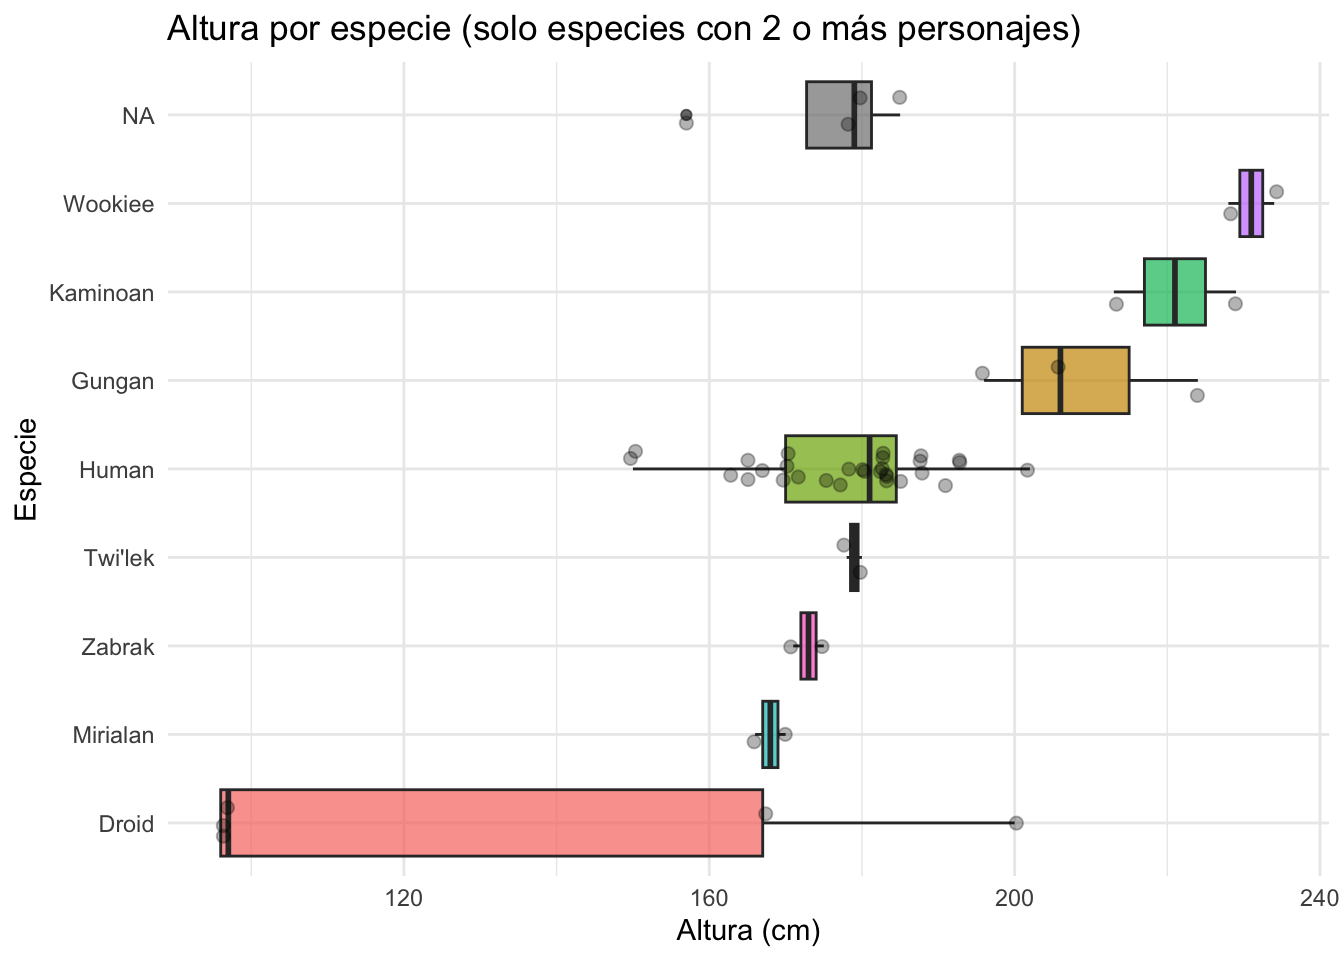
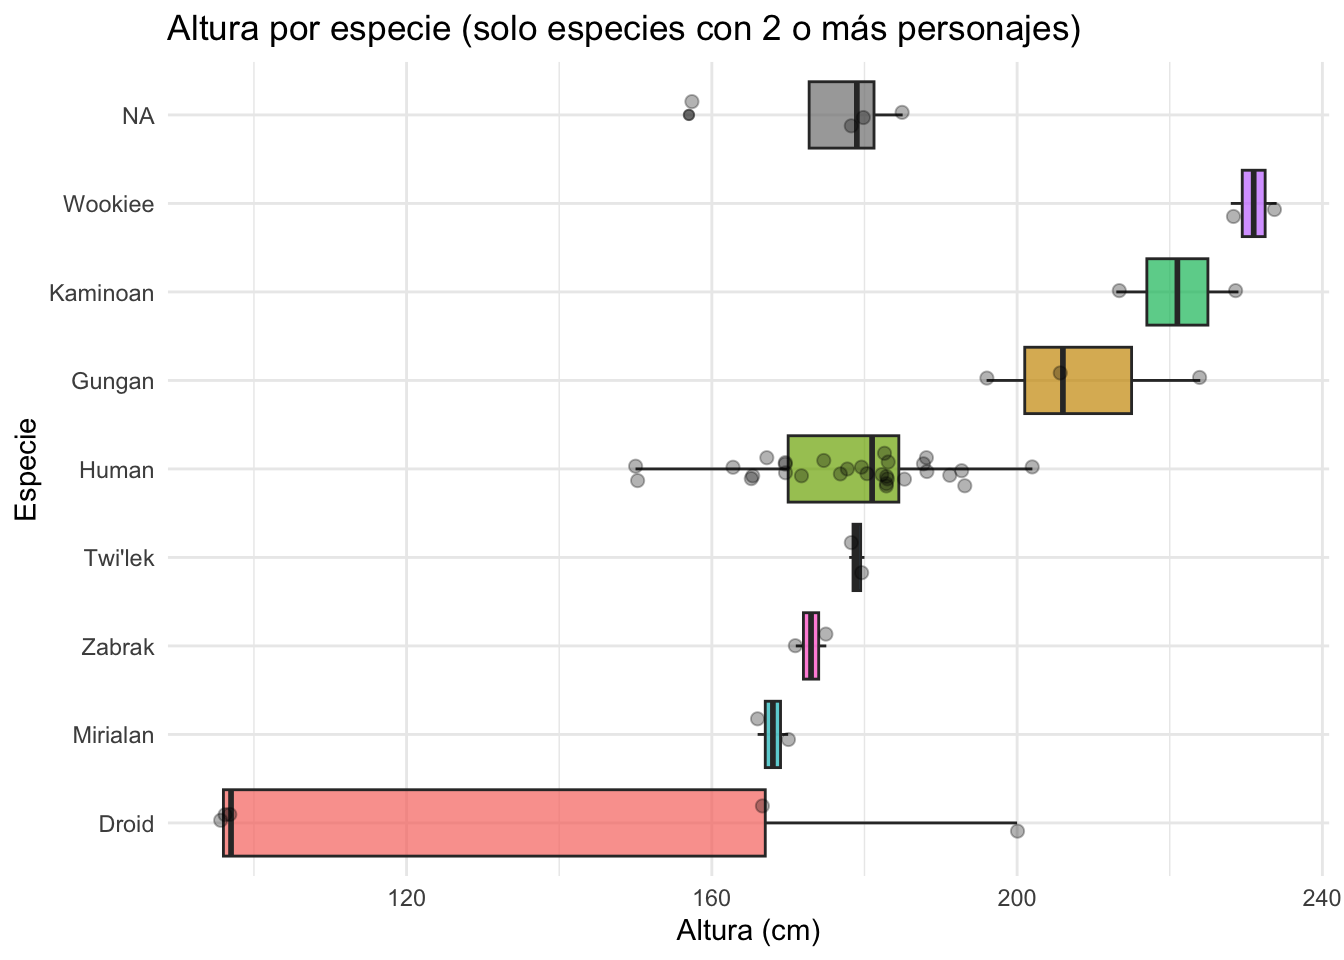
add render s4

diff --git a/docs/sesiones/sesion-4.html b/docs/sesiones/sesion-4.html
@@ -110,7 +110,7 @@ pre > code.sourceCode > span > a:first-child::before { text-decoration: underlin
 <link rel="stylesheet" href="../styles.css">
 </head>
 
-<body class="docked nav-fixed quarto-light">
+<body class="nav-sidebar docked nav-fixed quarto-light">
 
 <div id="quarto-search-results"></div>
   <header id="quarto-header" class="headroom fixed-top">
@@ -136,7 +136,7 @@ pre > code.sourceCode > span > a:first-child::before { text-decoration: underlin
 <span class="menu-text">Presentación</span></a>
   </li>  
   <li class="nav-item">
-    <a class="nav-link" href="../sesiones.html"> 
+    <a class="nav-link active" href="../sesiones.html" aria-current="page"> 
 <span class="menu-text">Sesiones</span></a>
   </li>  
 </ul>
@@ -145,11 +145,99 @@ pre > code.sourceCode > span > a:first-child::before { text-decoration: underlin
 </div>
       </div> <!-- /container-fluid -->
     </nav>
+  <nav class="quarto-secondary-nav">
+    <div class="container-fluid d-flex">
+      <button type="button" class="quarto-btn-toggle btn" data-bs-toggle="collapse" role="button" data-bs-target=".quarto-sidebar-collapse-item" aria-controls="quarto-sidebar" aria-expanded="false" aria-label="Toggle sidebar navigation" onclick="if (window.quartoToggleHeadroom) { window.quartoToggleHeadroom(); }">
+        <i class="bi bi-layout-text-sidebar-reverse"></i>
+      </button>
+        <nav class="quarto-page-breadcrumbs" aria-label="breadcrumb"><ol class="breadcrumb"><li class="breadcrumb-item"><a href="../sesiones/sesion-1.html">Todas las sesiones</a></li><li class="breadcrumb-item"><a href="../sesiones/sesion-4.html">Sesión 4</a></li><li class="breadcrumb-item"><a href="../sesiones/sesion-4.html">Sesión 4: Análisis Exploratorio de Datos</a></li></ol></nav>
+        <a class="flex-grow-1" role="navigation" data-bs-toggle="collapse" data-bs-target=".quarto-sidebar-collapse-item" aria-controls="quarto-sidebar" aria-expanded="false" aria-label="Toggle sidebar navigation" onclick="if (window.quartoToggleHeadroom) { window.quartoToggleHeadroom(); }">      
+        </a>
+    </div>
+  </nav>
 </header>
 <!-- content -->
 <div id="quarto-content" class="quarto-container page-columns page-rows-contents page-layout-article page-navbar">
 <!-- sidebar -->
   <nav id="quarto-sidebar" class="sidebar collapse collapse-horizontal quarto-sidebar-collapse-item sidebar-navigation docked overflow-auto">
+    <div class="sidebar-menu-container"> 
+    <ul class="list-unstyled mt-1">
+        <li class="sidebar-item">
+  <div class="sidebar-item-container"> 
+  <a href="../sesiones.html" class="sidebar-item-text sidebar-link">
+ <span class="menu-text">Sesiones</span></a>
+  </div>
+</li>
+        <li class="sidebar-item sidebar-item-section">
+      <div class="sidebar-item-container"> 
+            <a class="sidebar-item-text sidebar-link text-start" data-bs-toggle="collapse" data-bs-target="#quarto-sidebar-section-1" role="navigation" aria-expanded="true">
+ <span class="menu-text">Todas las sesiones</span></a>
+          <a class="sidebar-item-toggle text-start" data-bs-toggle="collapse" data-bs-target="#quarto-sidebar-section-1" role="navigation" aria-expanded="true" aria-label="Toggle section">
+            <i class="bi bi-chevron-right ms-2"></i>
+          </a> 
+      </div>
+      <ul id="quarto-sidebar-section-1" class="collapse list-unstyled sidebar-section depth1 show">  
+          <li class="sidebar-item">
+  <div class="sidebar-item-container"> 
+  <a href="../sesiones/sesion-1.html" class="sidebar-item-text sidebar-link">
+ <span class="menu-text">Sesión 1: Primeros pasos en R</span></a>
+  </div>
+</li>
+          <li class="sidebar-item sidebar-item-section">
+      <div class="sidebar-item-container"> 
+            <a class="sidebar-item-text sidebar-link text-start collapsed" data-bs-toggle="collapse" data-bs-target="#quarto-sidebar-section-2" role="navigation" aria-expanded="false">
+ <span class="menu-text">Sesión 2</span></a>
+          <a class="sidebar-item-toggle text-start collapsed" data-bs-toggle="collapse" data-bs-target="#quarto-sidebar-section-2" role="navigation" aria-expanded="false" aria-label="Toggle section">
+            <i class="bi bi-chevron-right ms-2"></i>
+          </a> 
+      </div>
+      <ul id="quarto-sidebar-section-2" class="collapse list-unstyled sidebar-section depth2 ">  
+          <li class="sidebar-item">
+  <div class="sidebar-item-container"> 
+  <a href="../sesion-2-material.html" class="sidebar-item-text sidebar-link">
+ <span class="menu-text">Sesión 2</span></a>
+  </div>
+</li>
+      </ul>
+  </li>
+          <li class="sidebar-item sidebar-item-section">
+      <div class="sidebar-item-container"> 
+            <a class="sidebar-item-text sidebar-link text-start collapsed" data-bs-toggle="collapse" data-bs-target="#quarto-sidebar-section-3" role="navigation" aria-expanded="false">
+ <span class="menu-text">Sesión 3</span></a>
+          <a class="sidebar-item-toggle text-start collapsed" data-bs-toggle="collapse" data-bs-target="#quarto-sidebar-section-3" role="navigation" aria-expanded="false" aria-label="Toggle section">
+            <i class="bi bi-chevron-right ms-2"></i>
+          </a> 
+      </div>
+      <ul id="quarto-sidebar-section-3" class="collapse list-unstyled sidebar-section depth2 ">  
+          <li class="sidebar-item">
+  <div class="sidebar-item-container"> 
+  <a href="../sesiones/sesion-3.html" class="sidebar-item-text sidebar-link">
+ <span class="menu-text">Sesión 3: Visualización de datos con ggplot2</span></a>
+  </div>
+</li>
+      </ul>
+  </li>
+          <li class="sidebar-item sidebar-item-section">
+      <div class="sidebar-item-container"> 
+            <a class="sidebar-item-text sidebar-link text-start" data-bs-toggle="collapse" data-bs-target="#quarto-sidebar-section-4" role="navigation" aria-expanded="true">
+ <span class="menu-text">Sesión 4</span></a>
+          <a class="sidebar-item-toggle text-start" data-bs-toggle="collapse" data-bs-target="#quarto-sidebar-section-4" role="navigation" aria-expanded="true" aria-label="Toggle section">
+            <i class="bi bi-chevron-right ms-2"></i>
+          </a> 
+      </div>
+      <ul id="quarto-sidebar-section-4" class="collapse list-unstyled sidebar-section depth2 show">  
+          <li class="sidebar-item">
+  <div class="sidebar-item-container"> 
+  <a href="../sesiones/sesion-4.html" class="sidebar-item-text sidebar-link active">
+ <span class="menu-text">Sesión 4: Análisis Exploratorio de Datos</span></a>
+  </div>
+</li>
+      </ul>
+  </li>
+      </ul>
+  </li>
+    </ul>
+    </div>
     <nav id="TOC" role="doc-toc" class="toc-active">
     <h2 id="toc-title">On this page</h2>
    
@@ -202,7 +290,7 @@ pre > code.sourceCode > span > a:first-child::before { text-decoration: underlin
 <!-- main -->
 <main class="content" id="quarto-document-content">
 
-<header id="title-block-header" class="quarto-title-block default">
+<header id="title-block-header" class="quarto-title-block default"><nav class="quarto-page-breadcrumbs quarto-title-breadcrumbs d-none d-lg-block" aria-label="breadcrumb"><ol class="breadcrumb"><li class="breadcrumb-item"><a href="../sesiones/sesion-1.html">Todas las sesiones</a></li><li class="breadcrumb-item"><a href="../sesiones/sesion-4.html">Sesión 4</a></li><li class="breadcrumb-item"><a href="../sesiones/sesion-4.html">Sesión 4: Análisis Exploratorio de Datos</a></li></ol></nav>
 <div class="quarto-title">
 <h1 class="title">Sesión 4: Análisis Exploratorio de Datos</h1>
 <p class="subtitle lead">Combinando dplyr y ggplot2 para investigar datos</p>

diff --git a/docs/sesiones.html b/docs/sesiones.html
@@ -182,6 +182,23 @@ ul.task-list li input[type="checkbox"] {
 </li>
       </ul>
   </li>
+          <li class="sidebar-item sidebar-item-section">
+      <div class="sidebar-item-container"> 
+            <a class="sidebar-item-text sidebar-link text-start collapsed" data-bs-toggle="collapse" data-bs-target="#quarto-sidebar-section-4" role="navigation" aria-expanded="false">
+ <span class="menu-text">Sesión 4</span></a>
+          <a class="sidebar-item-toggle text-start collapsed" data-bs-toggle="collapse" data-bs-target="#quarto-sidebar-section-4" role="navigation" aria-expanded="false" aria-label="Toggle section">
+            <i class="bi bi-chevron-right ms-2"></i>
+          </a> 
+      </div>
+      <ul id="quarto-sidebar-section-4" class="collapse list-unstyled sidebar-section depth2 ">  
+          <li class="sidebar-item">
+  <div class="sidebar-item-container"> 
+  <a href="./sesiones/sesion-4.html" class="sidebar-item-text sidebar-link">
+ <span class="menu-text">Sesión 4: Análisis Exploratorio de Datos</span></a>
+  </div>
+</li>
+      </ul>
+  </li>
       </ul>
   </li>
     </ul>
